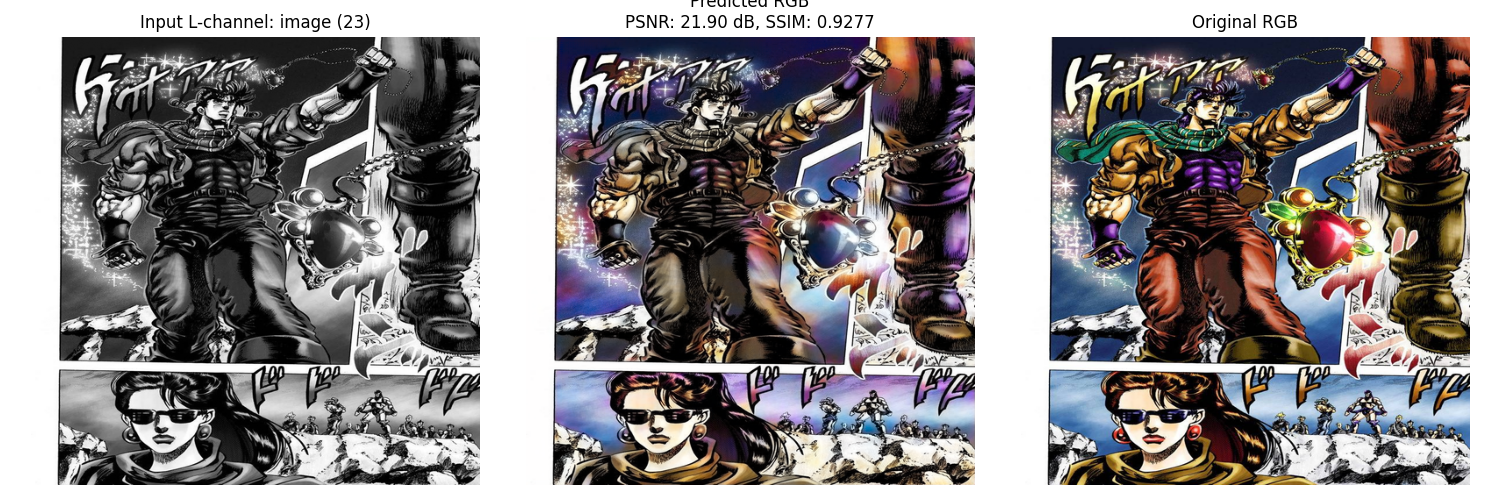
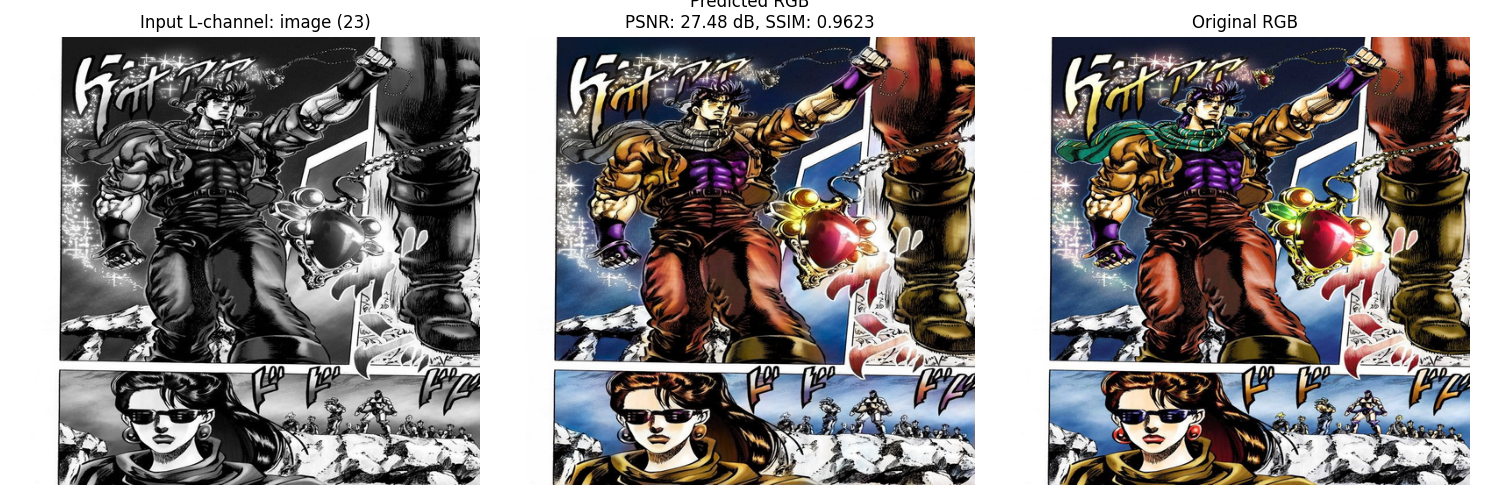
Unet Leaky all

diff --git a/file_converter.py b/file_converter.py
@@ -33,9 +33,9 @@ if __name__ == '__main__':
     # 假設彩色圖片放在 '1000img-paul' 資料夾下
     # 假設您希望將黑白圖片儲存在 'bw_images_512' 資料夾下
     # 您可以根據您的實際情況修改這些路徑
-    source_folder = '1000img-paul' 
-    destination_folder = 'bw_images_original' # 建議更改輸出資料夾名稱以區分
-    image_target_size = (780, 1200)
+    source_folder = '100img-paul' 
+    destination_folder = '100img-paul_bw' # 建議更改輸出資料夾名稱以區分
+    image_target_size = (512, 512)
 
     if not os.path.exists(source_folder):
         print(f"錯誤：找不到來源資料夾 '{source_folder}'。請確認路徑是否正確。")

diff --git a/baseline.py b/baseline.py
@@ -68,6 +68,7 @@ def unet_vgg16(learning_rate=0.0001, loss_function_name='mse'):
 
 def unet_relu_leaky(learning_rate=0.0001, loss_function_name='mse', use_zero_embedding=True):
     print("*****unet_relu_leaky*****")
+    use_zero_embedding=True
     encoder_input = Input(shape=(512, 512, 1,))
 
     encoder_c1 = Conv2D(16, (3, 3), padding='same')(encoder_input)
